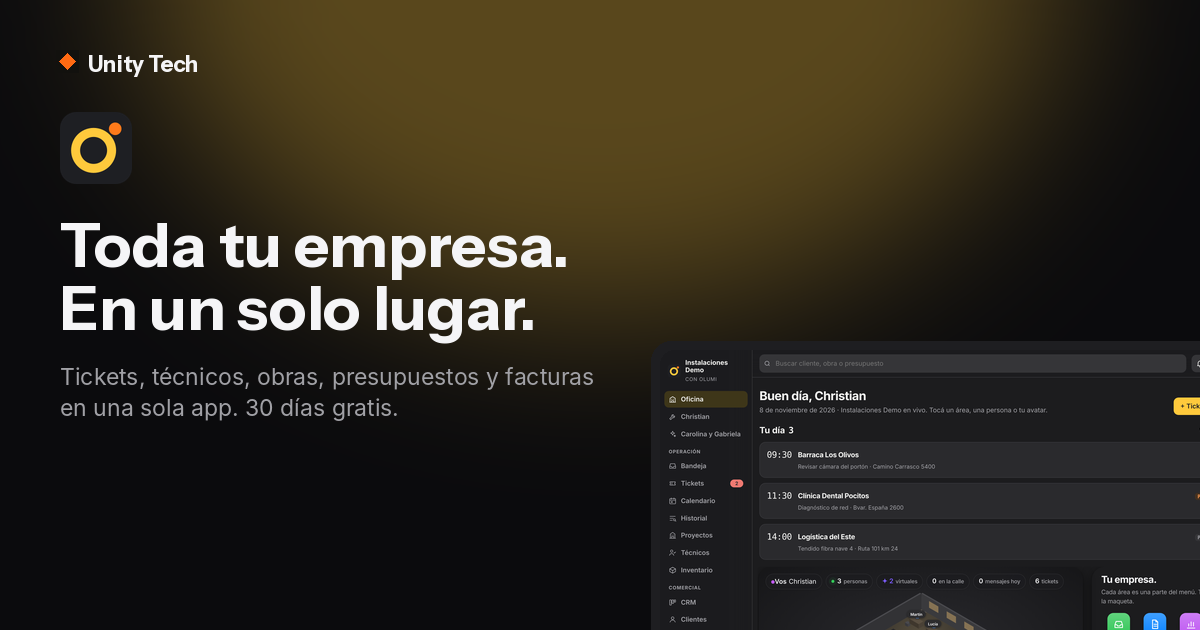
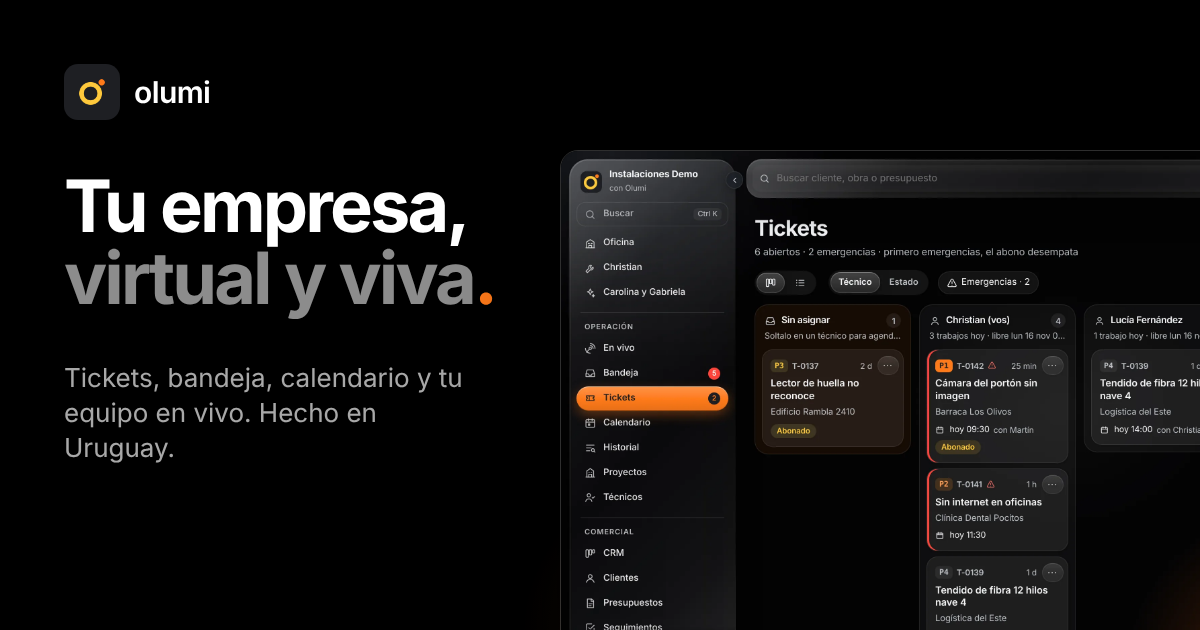
Web de Olumi con la identidad nueva: negro, vidrio y naranja; la maqueta nueva (la de la app) de fondo; sección «Así se ve» con las pantallas reales; iPhone en el App Store; imagen para compartir nueva
Claude-Session: https://claude.ai/code/session_01PU3XWczMwg441PMvryTaCL

diff --git a/olumi/index.html b/olumi/index.html
@@ -2,7 +2,7 @@
 <html lang="es-UY">
 <head>
 <meta charset="utf-8">
-<script>try{if(localStorage.getItem('unity.tema')==='noche')document.documentElement.classList.add('n')}catch(e){}</script>
+<script>try{if(localStorage.getItem('unity.tema')!=='dia')document.documentElement.classList.add('n')}catch(e){}</script>
 <meta name="viewport" content="width=device-width,initial-scale=1,viewport-fit=cover">
 <script>if(location.protocol==='http:'&&/(^|\.)unitytech\.uy$/.test(location.hostname))location.replace('https:'+location.href.slice(5))</script>
 <title>Olumi · Tu empresa virtual, viva</title>
@@ -14,9 +14,9 @@
 <meta property="og:description" content="Más que un CRM: tu empresa virtual, con tu equipo trabajando en vivo. 30 días gratis.">
 <meta property="og:image" content="https://unitytech.uy/olumi/og.png">
 <meta property="og:type" content="website">
-<meta name="theme-color" content="#f3f0eb">
+<meta name="theme-color" content="#000000">
 <link rel="preconnect" href="https://fonts.googleapis.com"><link rel="preconnect" href="https://fonts.gstatic.com" crossorigin>
-<link href="https://fonts.googleapis.com/css2?family=Hanken+Grotesk:wght@300..600&display=swap" rel="stylesheet">
+<link href="https://fonts.googleapis.com/css2?family=Inter:wght@300..700&display=swap" rel="stylesheet">
 <link rel="stylesheet" href="/estudio.css?v=2">
 <style>
 /* Olumi v5 "Estudio" · un solo color en toda la página (claro por defecto); arriba a la derecha se cambia a noche y queda guardado */
@@ -231,18 +231,47 @@ body.noche .modo .sol{opacity:0;transform:rotate(60deg) scale(.6)}body.noche .mo
   .ch.hero .side{display:none}
   .time b{font-size:36px}
 }
+
+/* ---------- Identidad Olumi en la web (14/11): negro, vidrio y el naranja del punto del logo ---------- */
+:root{--f:"Inter",-apple-system,BlinkMacSystemFont,"SF Pro Display",system-ui,sans-serif;--o:#FF7A1A;--graf:#1E1F23;--lime:#FF7A1A;--amber:#FF7A1A;--terra:#FF7A1A;
+  --paper:#f5f5f7;--paper2:#ececef;--card:#ffffff;--ink:#1d1d1f;--ink2:#6e6e73;--ink3:#a1a1a6;
+  --m-olumi:radial-gradient(120% 90% at 0% 0%,rgba(255,122,26,.75) 0%,rgba(255,122,26,0) 58%),radial-gradient(110% 110% at 100% 100%,#000 0%,rgba(0,0,0,0) 60%),linear-gradient(140deg,#4a2209,#141416);
+  --m-sage:radial-gradient(120% 90% at 0% 0%,rgba(255,255,255,.14) 0%,rgba(255,255,255,0) 55%),linear-gradient(140deg,#2a2b30,#0e0e10);
+  --m-noche:linear-gradient(140deg,#1E1F23,#08080a)}
+body.noche,html.n body{--paper:#000;--paper2:#0a0a0c;--card:rgba(30,31,35,.62);--ink:#f5f5f7;--ink2:rgba(245,245,247,.64);--ink3:rgba(245,245,247,.4);--line:rgba(255,255,255,.1);--line2:rgba(255,255,255,.18);
+  --sh:inset 0 1px 0 rgba(255,255,255,.08),0 30px 70px -30px rgba(0,0,0,.9);--sh2:var(--sh)}
+body{letter-spacing:-.014em}
+h1,h2{letter-spacing:-.035em}
+.btn.ink{background:var(--o);color:var(--graf);border-color:var(--o)}.btn.ink:hover{background:#ff8a33}
+.tabs a.on{background:var(--o);color:var(--graf);border-color:var(--o)}
+.kick i{background:var(--o);box-shadow:0 0 0 4px rgba(255,122,26,.25)}
+::selection{background:var(--o);color:var(--graf)}
+.mat::after{opacity:.16}
+body.noche .card,html.n body .card{-webkit-backdrop-filter:blur(24px) saturate(1.6);backdrop-filter:blur(24px) saturate(1.6);border-color:var(--line)}
+body.noche .top,html.n body .top{background:color-mix(in srgb,#000 55%,transparent)}
+/* ---------- Así se ve ---------- */
+.vista .desk{margin:0 0 64px;position:relative}
+.vista .desk img{width:100%;height:auto;border-radius:22px;border:1px solid var(--line2);background:#000;box-shadow:0 50px 140px -50px rgba(255,122,26,.45),0 30px 80px -20px rgba(0,0,0,.55)}
+.vista figcaption{margin-top:18px;font-size:15.5px;line-height:1.45;color:var(--ink2);max-width:34em}
+.vista figcaption b{display:block;color:var(--ink);font-weight:600;font-size:17px;margin-bottom:2px}
+.vista figure{margin:0}
+.phones{display:grid;grid-template-columns:repeat(4,minmax(0,1fr));gap:32px}
+.ph{border-radius:46px;padding:9px;background:#1E1F23;border:1px solid rgba(255,255,255,.14);box-shadow:inset 0 1px 0 rgba(255,255,255,.12),0 30px 70px -24px rgba(0,0,0,.6)}
+.ph img{width:100%;height:auto;aspect-ratio:390/844;border-radius:38px;background:#000}
+@media (max-width:860px){.phones{display:flex;overflow-x:auto;scroll-snap-type:x mandatory;gap:18px;margin:0 -24px;padding:0 24px 8px;scrollbar-width:none}.phones::-webkit-scrollbar{display:none}
+  .phones figure{flex:0 0 68%;scroll-snap-align:center}.vista .desk{margin-bottom:44px}.vista .desk img{border-radius:14px}}
 </style>
 </head>
 <body>
 <header class="top" id="top"><div class="wrap">
   <a class="logo" href="./" aria-label="Olumi, inicio"><svg viewBox="0 0 120 120" aria-hidden="true"><rect width="120" height="120" rx="30" fill="#191817"/><circle cx="56" cy="64" r="30" stroke="#FFC93C" stroke-width="15" fill="none"/><circle cx="92" cy="28" r="10.5" fill="#FF7A1A"/></svg>olumi<small>by Unity Tech</small></a>
-  <nav class="tabs" aria-label="Secciones"><a class="on" href="#cine">La oficina</a><a href="#rubros">Rubros</a><a href="#funciones">Funciones</a><a href="#planes">Planes</a><a href="#descargas">Descargas</a></nav>
+  <nav class="tabs" aria-label="Secciones"><a class="on" href="#cine">La oficina</a><a href="#app">La app</a><a href="#rubros">Rubros</a><a href="#funciones">Funciones</a><a href="#planes">Planes</a><a href="#descargas">Descargas</a></nav>
   <div class="right"><button type="button" class="modo" id="modo" aria-label="Cambiar a modo noche" title="Día o noche"><svg class="sol" viewBox="0 0 24 24"><circle cx="12" cy="12" r="4.2"/><path d="M12 2.5v2.2M12 19.3v2.2M2.5 12h2.2M19.3 12h2.2M5.3 5.3l1.6 1.6M17.1 17.1l1.6 1.6M5.3 18.7l1.6-1.6M17.1 6.9l1.6-1.6"/></svg><svg class="luna" viewBox="0 0 24 24"><path d="M20 14.5A8 8 0 0 1 9.5 4a8 8 0 1 0 10.5 10.5z"/></svg></button><a class="ent" href="/olumi/app/">Entrar</a><a class="btn ink sm" href="/olumi/app/">Probar gratis</a></div>
 </div></header>
 
 <main>
 <section class="cine" id="cine" data-ch="0" aria-label="Un día en una empresa con Olumi" style="padding:0">
-  <div class="bg"><iframe id="ofi" src="/olumi/oficina/3d.html?embed=1&amp;cine=1&amp;estilo=estudio" title="Maqueta 3D de una empresa con Olumi" tabindex="-1" aria-hidden="true"></iframe></div>
+  <div class="bg"><iframe id="ofi" src="/olumi/app/oficina.html?embed=1&amp;cine=1" title="Maqueta 3D de una empresa con Olumi" tabindex="-1" aria-hidden="true"></iframe></div>
   <div class="chs">
 
     <article class="ch hero" data-t="0"><div class="wrap"><div class="txt">
@@ -371,6 +400,16 @@ body.noche .modo .sol{opacity:0;transform:rotate(60deg) scale(.6)}body.noche .mo
   </div>
 </section>
 
+<section id="app" class="vista"><div class="wrap">
+  <div class="head"><h2>Así se ve.<span class="two">En la compu y en el celular.</span></h2><p class="lede">Las pantallas de Olumi tal cual son, con datos de ejemplo. Negro, vidrio y un solo color para lo importante.</p></div>
+  <figure class="desk"><img src="img/escritorio-tickets.webp" width="1280" height="800" loading="lazy" alt="Tickets en tablero: Sin asignar y una columna por técnico, con su carga del día"><figcaption><b>Tickets en tablero</b>Soltás el ticket en un técnico y queda agendado en su primer hueco libre, en el Calendario.</figcaption></figure>
+  <div class="phones">
+    <figure><div class="ph"><img src="img/bandeja.webp" width="390" height="844" loading="lazy" alt="Bandeja de entrada en tablero"></div><figcaption><b>Bandeja</b>WhatsApp, correo y llamadas, ordenados por paso o por urgencia.</figcaption></figure>
+    <figure><div class="ph"><img src="img/tickets.webp" width="390" height="844" loading="lazy" alt="Tickets de un técnico en el celular"></div><figcaption><b>Tickets</b>Primero lo urgente; el abono desempata.</figcaption></figure>
+    <figure><div class="ph"><img src="img/calendario.webp" width="390" height="844" loading="lazy" alt="Calendario por horas de tres días"></div><figcaption><b>Calendario</b>Día, tres días o semana. Arrastrás y avisás al cliente.</figcaption></figure>
+    <figure><div class="ph"><img src="img/mi-dia.webp" width="390" height="844" loading="lazy" alt="Mi día del técnico"></div><figcaption><b>Mi día</b>El técnico sabe a dónde ir y cierra con foto y firma.</figcaption></figure>
+  </div>
+</div></section>
 <section id="rubros" class="rub"><div class="wrap">
   <div class="head"><h2>Nació en las instalaciones.<span class="two">Sirve para cualquier equipo en la calle.</span></h2>
     <p class="lede">Si tu empresa recibe pedidos, manda gente a resolverlos y necesita saber dónde está cada uno, Olumi es tu empresa virtual. El mismo esquema, con las palabras de tu rubro.</p></div>
@@ -421,7 +460,7 @@ body.noche .modo .sol{opacity:0;transform:rotate(60deg) scale(.6)}body.noche .mo
   <div class="grid3">
     <article class="card"><div class="row"><span class="ic"><svg viewBox="0 0 24 24"><circle cx="12" cy="12" r="9"/><path d="M3 12h18M12 3c2.5 2.5 3.5 5.5 3.5 9s-1 6.5-3.5 9c-2.5-2.5-3.5-5.5-3.5-9s1-6.5 3.5-9z"/></svg></span></div><h3>Navegador</h3><p>Chrome, Safari o Edge, sin instalar nada.</p><a class="btn ink" href="/olumi/app/">Abrir Olumi</a></article>
     <article class="card"><div class="row"><span class="ic"><svg viewBox="0 0 24 24"><rect x="3" y="5" width="18" height="12" rx="1.5"/><path d="M8 20h8M12 17v3"/></svg></span></div><h3>Windows y Mac</h3><p>Descargá el ZIP y abrí Olumi como una app más.</p><a class="btn" href="https://github.com/christianbarcossilva-stack/olumi-web/releases/download/escritorio/Olumi-Windows.zip">Windows</a> <a class="btn" href="https://github.com/christianbarcossilva-stack/olumi-web/releases/download/escritorio/Olumi-Mac.zip">Mac</a><small>Mac Intel: <a href="https://github.com/christianbarcossilva-stack/olumi-web/releases/download/escritorio/Olumi-Mac-Intel.zip">esta versión</a>.</small></article>
-    <article class="card mat sage"><div class="row"><span class="ic"><svg viewBox="0 0 24 24"><rect x="7" y="2" width="10" height="20" rx="2.5"/><path d="M10 4h4"/></svg></span><span class="tag">Pronto en las tiendas</span></div><h3>iPhone y Android</h3><p>iPhone por invitación en TestFlight; Android desde Chrome con «Instalar aplicación».</p><a class="btn" style="background:#fff;color:#191817;border-color:#fff" href="mailto:hola@unitytech.uy?subject=Quiero%20probar%20Olumi%20en%20iPhone">Pedir invitación</a></article>
+    <article class="card mat sage"><div class="row"><span class="ic"><svg viewBox="0 0 24 24"><rect x="7" y="2" width="10" height="20" rx="2.5"/><path d="M10 4h4"/></svg></span><span class="tag">En el App Store</span></div><h3>iPhone y Android</h3><p>En el iPhone, buscá «Olumi» en el App Store. En Android, desde Chrome con «Instalar aplicación».</p><a class="btn" style="background:#FF7A1A;color:#1E1F23;border-color:#FF7A1A" href="/olumi/app/">Abrir Olumi</a></article>
   </div>
 </div></section>
 
@@ -472,8 +511,8 @@ body.noche .modo .sol{opacity:0;transform:rotate(60deg) scale(.6)}body.noche .mo
   if('IntersectionObserver' in window){var io=new IntersectionObserver(function(es){es.forEach(function(e){if(e.isIntersecting)tabs.forEach(function(a){a.classList.toggle('on',a.getAttribute('href')==='#'+e.target.id)})})},{rootMargin:'-45% 0px -50% 0px'});
     tabs.forEach(function(a){var s=document.querySelector(a.getAttribute('href'));if(s)io.observe(s)})}
   // día o noche: uno solo para toda la página, se elige arriba a la derecha y queda guardado
-  var mb=document.getElementById('modo');function modo(n,anim){document.body.classList.toggle('noche',n);document.documentElement.classList.toggle('n',n);mb.setAttribute('aria-label',n?'Cambiar a modo día':'Cambiar a modo noche');var m=document.querySelector('meta[name=theme-color]');if(m)m.content=n?'#100f0e':'#f3f0eb';send({tema:n?'dark':'light'});try{localStorage.setItem('unity.tema',n?'noche':'dia')}catch(e){}}
-  var t0='dia';try{t0=localStorage.getItem('unity.tema')||'dia'}catch(e){}modo(t0==='noche');mb.addEventListener('click',function(){modo(!document.body.classList.contains('noche'))});
+  var mb=document.getElementById('modo');function modo(n,anim){document.body.classList.toggle('noche',n);document.documentElement.classList.toggle('n',n);mb.setAttribute('aria-label',n?'Cambiar a modo día':'Cambiar a modo noche');var m=document.querySelector('meta[name=theme-color]');if(m)m.content=n?'#000000':'#f5f5f7';send({tema:n?'dark':'light'});try{localStorage.setItem('unity.tema',n?'noche':'dia')}catch(e){}}
+  var t0='noche';try{t0=localStorage.getItem('unity.tema')||'noche'}catch(e){}modo(t0==='noche');mb.addEventListener('click',function(){modo(!document.body.classList.contains('noche'))});
   fit();upd();if(document.fonts&&document.fonts.ready)document.fonts.ready.then(fit);setTimeout(upd,1500);
 })();
 </script>
